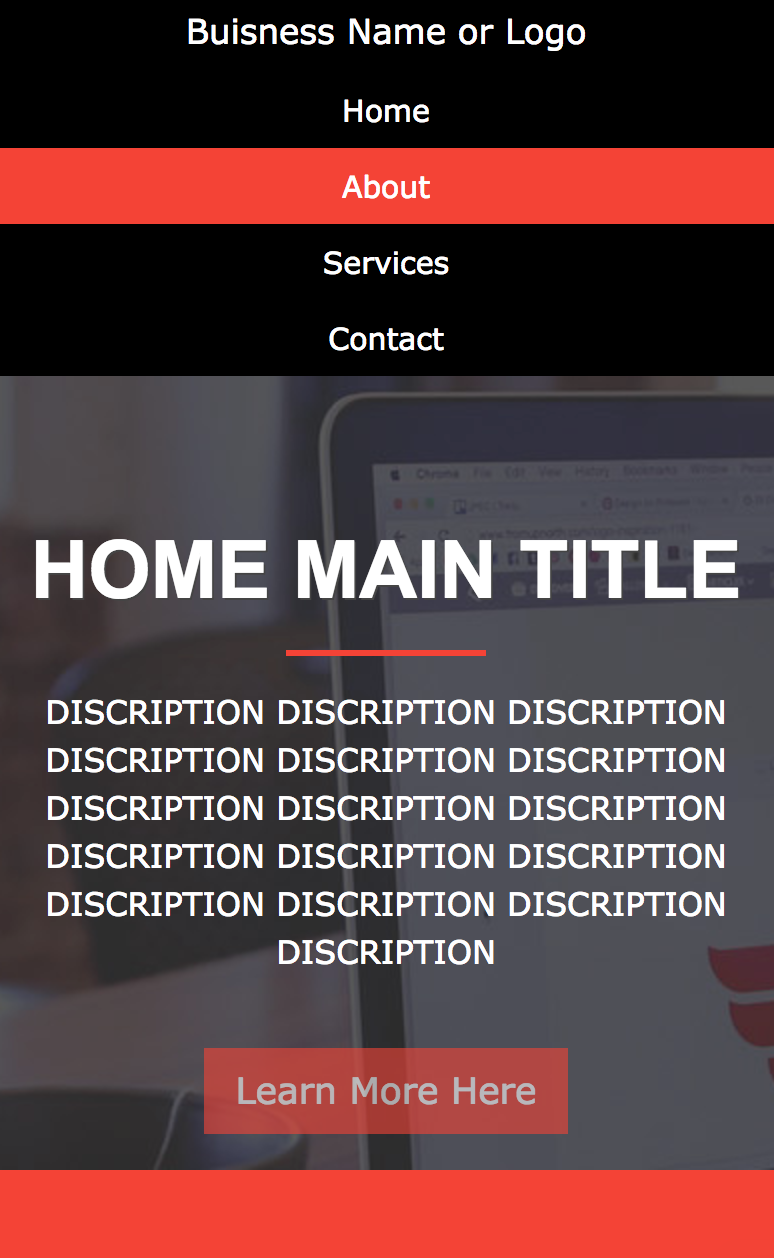
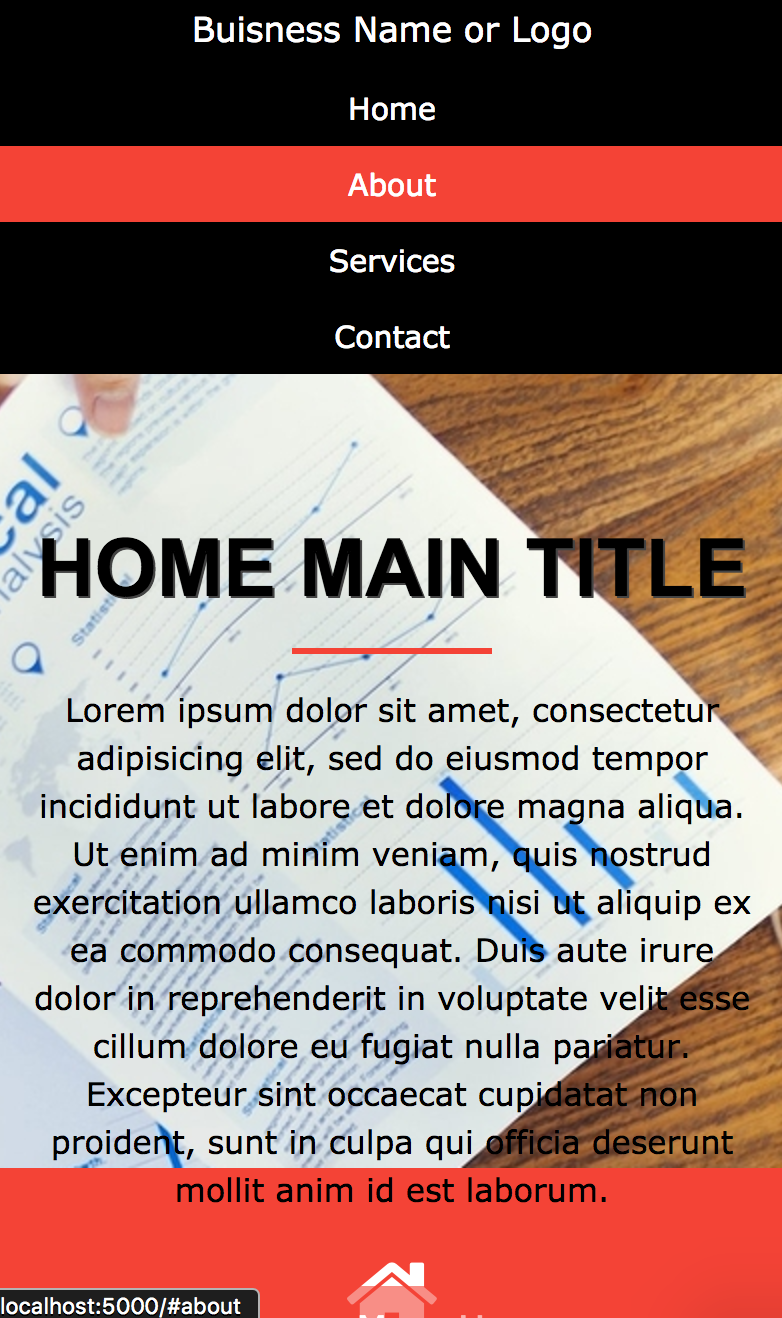
added new screenshots

diff --git a/public/index.html b/public/index.html
@@ -11,7 +11,7 @@
   </head>
   <body ng-app="AngularApp" ng-controller="MainController as mc">
     <!-- NAVIGATION -->
-    <div class="w3-top">
+    <div class="w3-top" id="navBar">
       <div class="w3-bar w3-black">
         <span class="branding w3-bar-item w3-mobile"> {{mc.buisnessHeader}} </span>
         <span class="w3-right w3-mobile">
@@ -56,7 +56,7 @@
       <div class="w3-container">
         <div class="w3-row-padding">
           <div class="w3-col m5">
-            <img src="img/about.jpg">
+            <img src="img/working.png">
           </div>
           <div class="w3-col m7">
             <button ng-click="mc.accFunction('what')" class="w3-btn-block w3-left-align"> {{mc.windowOneWhatWeDoHeader}} </button>

diff --git a/public/styles/styles.css b/public/styles/styles.css
@@ -2,12 +2,16 @@
   font-size:17px;
 }
 
+#navBar {
+  background-color: #000000;
+}
+
 .showcase{
-  background:url('../img/showcase.jpg') no-repeat;
+  background:url('../img/backgroundOne.png') no-repeat;
   background-position:center;
   height: 600px;
   padding:140px 100px;
-  color:#fff;
+  /*color:#fff;*/
 }
 
 .showcase h1{
@@ -44,6 +48,10 @@
 .section img{
   width:100%;
 }
+
+
+
+
 
 @media only screen and (max-width:600px){
   body{

diff --git a/README.md b/README.md
@@ -9,18 +9,22 @@
 ######   This Node.js project is build from the Node platform using Angular as the front-end framework.  All headers, descriptions, logos and images all have specific angular client variables making this template easy to transform from buisness to buisness. The ABOUT section has collapsible description fields to add detailed information.  When converting for specific applications, ONLY ``client.js`` and ``styles.css`` shall be marked up and altered.  The framework is both desktop and mobile friendly.
 
 #### Desktop View:
-<!-- <img src="./public/img/screenshots/desktopone.png"> -->
+<img src="./public/img/screenshots/desktopone.png" width="50%">
 
-<!-- <img src="./public/img/screenshots/desktoptwo.png"> -->
+<img src="./public/img/screenshots/desktoptwo.png" width="50%">
 
-<!-- <img src="./public/img/screenshots/mailer.png"> -->
+<img src="./public/img/screenshots/desktopthree.png" width="50%">
 
-#### Mobil View:
-<!-- <img src="./public/img/screenshots/mobileone.png" width="50%"> -->
+<img src="./public/img/screenshots/desktopfour.png" width="50%">
 
-<!-- <img src="./public/img/screenshots/mobiletwo.png" width="50%"> -->
+<img src="./public/img/screenshots/modal.png" width="50%">
 
-<!-- <img src="./public/img/screenshots/mobilemailer.png" width="50%"> -->
+#### Mobile View:
+<img src="./public/img/screenshots/mobileone.png" width="50%">
+
+<img src="./public/img/screenshots/mobiletwo.png" width="50%">
+
+<img src="./public/img/screenshots/mobilethree.png" width="50%">
 
 ---
 
@@ -36,6 +40,8 @@
   9. dotnev-node
   10. W3 CSS
   11. Font Awesome
+
+---
 
 ### How To Install App
   1. Fork or download zip file
